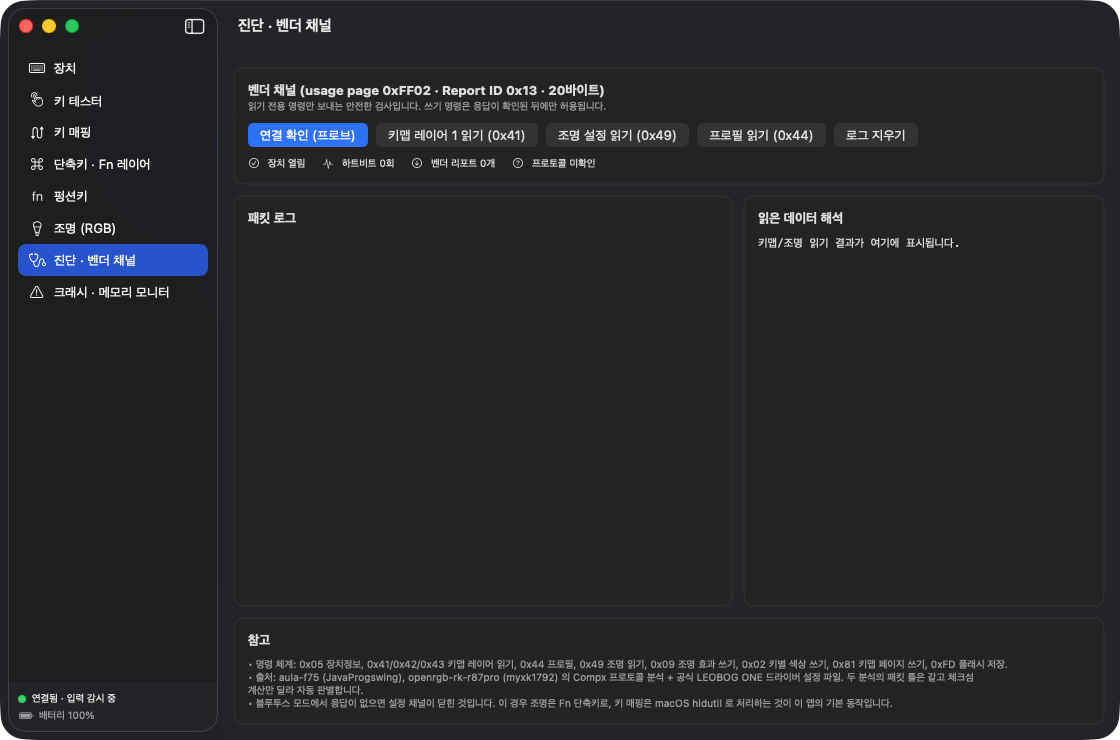
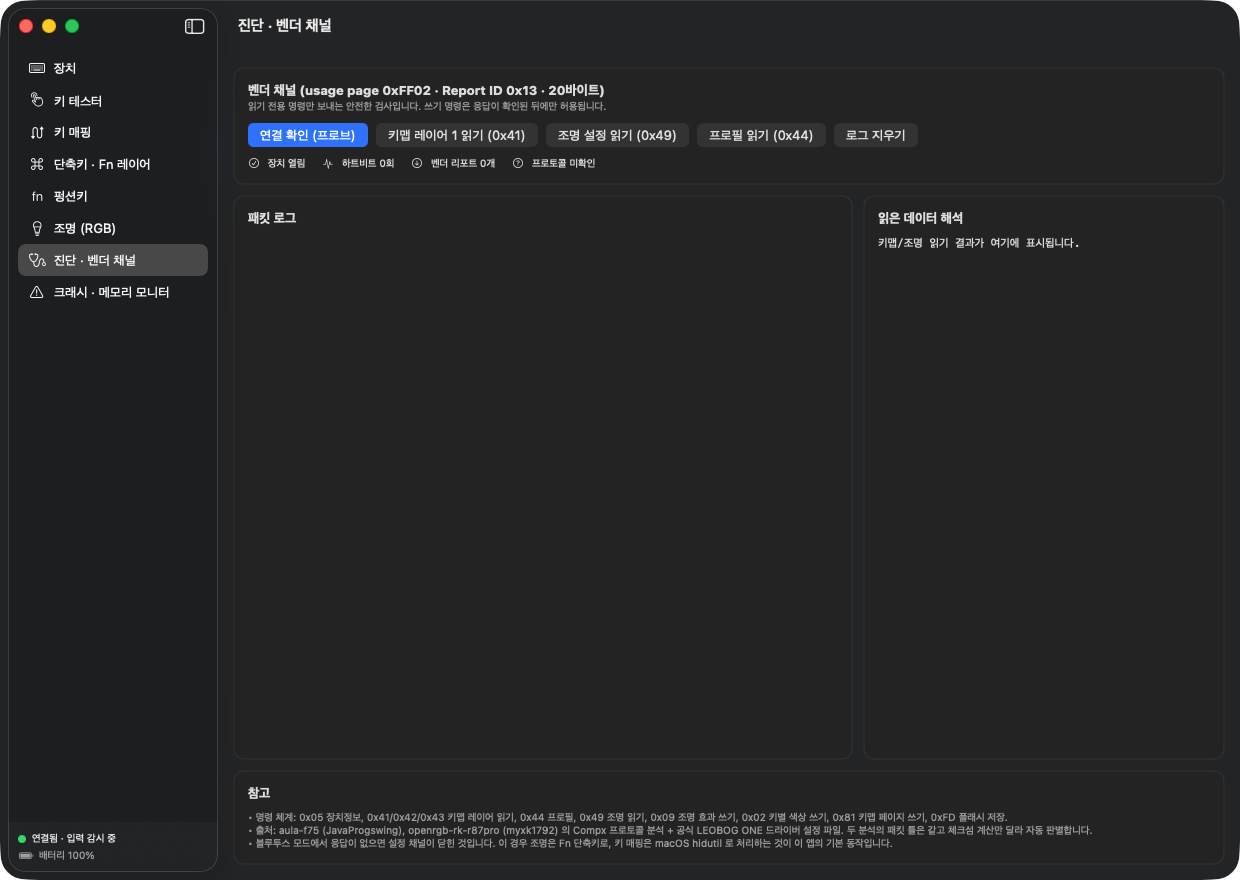
키 테스터 레이아웃 정리, 기본 창 1240×880 으로 확대
- 키 테스터 헤더: 상태 문구는 두 줄까지만, 모드 선택기·버튼은 고정 폭으로 두어 겹치지 않게
- 다이어그램 매핑 라벨을 원래 키/대상 키 두 줄로, 좁은 키는 화살표 생략
- 오른쪽 카드 묶음을 스크롤 영역(340px)으로, 다이어그램 최대 높이 300
- WindowGroup id 를 바꿔 저장된 창 크기 대신 새 기본값(1240×880, 최소 1040×720) 적용
- 단축키 탭 모드 선택기 라벨을 세그먼트 바깥으로
- 자동화 훅을 deliverImmediately 옵저버로 등록 (창이 뒤에 있어도 수신)
- screenshots.sh: SDK 선택, --args 단어 분할, 앱 기동 대기 수정
- 스크린샷 7장 재촬영, CHANGELOG/README 갱신

diff --git a/Sources/LeobogControl/Views/KeyTesterView.swift b/Sources/LeobogControl/Views/KeyTesterView.swift
@@ -9,23 +9,31 @@ struct KeyTesterView: View {
 
     var body: some View {
         VStack(alignment: .leading, spacing: 12) {
-            HStack {
-                if hid.isOpen {
-                    Label("HID 입력 리포트로 실시간 확인 중 — 아무 키나 눌러 보세요 (Fn 조합, 노브 포함). 방향키·Tab 도 이 화면이 받습니다 (⌘ 조합 제외)", systemImage: "dot.radiowaves.left.and.right").foregroundStyle(.green)
-                } else {
-                    Label("권한 없음: 이 창이 앞에 있을 때만 키를 볼 수 있습니다 (NSEvent). 전체 기능은 입력 모니터링 권한 허용 후.", systemImage: "exclamationmark.triangle").foregroundStyle(.orange)
+            // 상태 문구는 두 줄까지 접고, 오른쪽 컨트롤은 고정 폭으로 두어 서로 겹치지 않게 한다
+            HStack(alignment: .center, spacing: 12) {
+                Group {
+                    if hid.isOpen {
+                        Label("HID 리포트로 실시간 확인 중 — 아무 키나 눌러 보세요 (Fn 조합·노브 포함, ⌘ 조합 제외)", systemImage: "dot.radiowaves.left.and.right").foregroundStyle(.green)
+                    } else {
+                        Label("권한 없음: 이 창이 앞에 있을 때만 키를 볼 수 있습니다. 전체 기능은 입력 모니터링 허용 후.", systemImage: "exclamationmark.triangle").foregroundStyle(.orange)
+                    }
                 }
-                Spacer()
-                Picker("키보드 모드", selection: $model.keyboardMode) {
-                    ForEach(KeyboardMode.allCases) { Text($0.label).tag($0) }
+                .lineLimit(2).fixedSize(horizontal: false, vertical: true)
+                Spacer(minLength: 8)
+                HStack(spacing: 8) {
+                    Text("키보드 모드").foregroundStyle(.secondary)
+                    Picker("키보드 모드", selection: $model.keyboardMode) {
+                        ForEach(KeyboardMode.allCases) { Text($0.label).tag($0) }
+                    }
+                    .labelsHidden().pickerStyle(.segmented).frame(width: 200)
+                    .help("키보드에서 Fn + M 으로 전환하는 펌웨어 모드. 하단열(⌥ / ⌘ / Fn) 배열이 달라집니다.")
+                    Button("기록 지우기") { model.clearEvents(); everPressed.removeAll() }
                 }
-                .pickerStyle(.segmented).frame(width: 210)
-                .help("키보드에서 Fn + M 으로 전환하는 펌웨어 모드. 하단열(⌥ / ⌘ / Fn) 배열이 달라집니다.")
-                Button("기록 지우기") { model.clearEvents(); everPressed.removeAll() }
+                .fixedSize()
             }.font(.callout)
 
             KeyboardDiagramView(keys: model.layoutKeys, pressed: model.pressedKeyIDs, remapped: remapLabels, highlighted: everPressed)
-                .frame(maxHeight: 330)
+                .frame(maxHeight: 300)
                 .onChange(of: model.pressedKeyIDs) { _, new in everPressed.formUnion(new) }
                 .onChange(of: model.keyboardMode) { _, _ in everPressed.removeAll() }
 
@@ -43,9 +51,11 @@ struct KeyTesterView: View {
                                 Text(ev.isDown ? "눌림" : "뗌").foregroundStyle(ev.isDown ? .green : .secondary).font(.caption)
                             }.id(ev.id)
                         }
-                        .frame(minHeight: 160)
+                        .frame(minHeight: 160, maxHeight: .infinity)
                     }
                 }
+                // 오른쪽 카드 묶음은 스크롤 영역에 넣어 창이 작아도 전체 레이아웃이 세로로 넘치지 않게 한다
+                ScrollView(.vertical) {
                 VStack(alignment: .leading, spacing: 12) {
                     Card(title: "키보드 자체 Fn 키", subtitle: fnKeyPosition) {
                         Text("펌웨어가 직접 처리하는 키라 혼자 누르면 맥으로 아무 입력도 오지 않습니다 — 다이어그램에 안 켜지는 것이 정상입니다. 조합으로만 보입니다:")
@@ -91,9 +101,12 @@ struct KeyTesterView: View {
                         }
                     }
                 }
-                .frame(width: 320)
+                }
+                .frame(width: 340)
             }
+            .frame(maxHeight: .infinity)
         }
+        .frame(maxWidth: .infinity, maxHeight: .infinity, alignment: .topLeading)
         .padding(16)
     }
 

diff --git a/Sources/LeobogControl/AutomationHook.swift b/Sources/LeobogControl/AutomationHook.swift
@@ -1,6 +1,5 @@
 import SwiftUI
 import AppKit
-import Combine
 import LeobogCore
 
 /// 문서용 스크린샷 자동화 훅. `open -a "Leobog Control" --args -automation YES` 로 띄웠을 때만 켜지며,
@@ -13,9 +12,25 @@ enum AutomationHook {
     static let name = Notification.Name("com.leobog.control.automation")
     static var enabled: Bool { CommandLine.arguments.contains("-automation") }
 
-    static var publisher: AnyPublisher<Notification, Never> {
-        guard enabled else { return Empty().eraseToAnyPublisher() }
-        return DistributedNotificationCenter.default().publisher(for: name).receive(on: RunLoop.main).eraseToAnyPublisher()
+    private static var observer: Observer?
+
+    /// 앱 시작 시 한 번 호출. SwiftUI 의 onReceive 대신 selector 로 직접 등록하는 이유: 앱이 비활성(다른 앱이 앞)일 때
+    /// AppKit 이 분산 알림 센터를 suspend 하는데, `.deliverImmediately` 로 등록해야 그 상태에서도 바로 받는다.
+    @MainActor
+    static func start(model: AppModel) {
+        AppLog.shared.log("automation", "start 호출: enabled=\(enabled) args=\(CommandLine.arguments.dropFirst().joined(separator: " "))")
+        guard enabled, observer == nil else { return }
+        let o = Observer(model: model)
+        DistributedNotificationCenter.default().addObserver(o, selector: #selector(Observer.receive(_:)), name: name, object: nil, suspensionBehavior: .deliverImmediately)
+        observer = o
+        AppLog.shared.log("automation", "자동화 훅 등록 (\(name.rawValue))")
+    }
+
+    @MainActor
+    private final class Observer: NSObject {
+        let model: AppModel
+        init(model: AppModel) { self.model = model }
+        @objc func receive(_ n: Notification) { AutomationHook.handle(n, model: model) }
     }
 
     @MainActor

diff --git a/Sources/LeobogControl/Views/KeyboardDiagramView.swift b/Sources/LeobogControl/Views/KeyboardDiagramView.swift
@@ -56,19 +56,22 @@ struct KeyboardDiagramView: View {
                     else { RoundedRectangle(cornerRadius: 4 * scale).stroke(strokeColor(sel: isSel, hi: isHi, remap: remapLabel != nil), lineWidth: isSel || isHi ? 2 : 1) }
                 }
             )
+            // 매핑된 키는 원래 라벨을 조금 줄이고 대상 라벨을 아래에 둔다. 좁은 키(F열 등)에서는 화살표를 빼서
+            // 글자가 지나치게 작아지지 않게 한다 — 주황색 글씨와 테두리만으로도 매핑 표시가 된다.
+            let narrow = key.frame.width * scale < 48
             VStack(spacing: 0) {
                 Text(key.displayLabel)
-                    .font(.system(size: fontSize, weight: .medium))
+                    .font(.system(size: remapLabel == nil ? fontSize : fontSize * 0.85, weight: .medium))
                     .foregroundStyle(isPressed ? Color.white : (colors[key.id] != nil ? Color.black.opacity(0.75) : Color.primary))
-                    .lineLimit(1).minimumScaleFactor(0.5)
+                    .lineLimit(1).minimumScaleFactor(0.6).allowsTightening(true)
                 if let r = remapLabel {
-                    Text("→\(r)")
-                        .font(.system(size: fontSize * 0.85, weight: .semibold))
+                    Text(narrow ? r : "→\(r)")
+                        .font(.system(size: fontSize * 0.9, weight: .semibold))
                         .foregroundStyle(isPressed ? Color.white : Color.orange)
-                        .lineLimit(1).minimumScaleFactor(0.5)
+                        .lineLimit(1).minimumScaleFactor(0.6).allowsTightening(true)
                 }
             }
-            .padding(1)
+            .padding(.horizontal, 1)
         }
         .contentShape(Rectangle())
     }

diff --git a/Sources/LeobogControl/LeobogControlApp.swift b/Sources/LeobogControl/LeobogControlApp.swift
@@ -30,7 +30,8 @@ struct LeobogControlApp: App {
     @StateObject private var model = AppModel()
 
     var body: some Scene {
-        WindowGroup("Leobog Control") {
+        // id 를 주면 창 프레임 자동 저장 키가 바뀌어, 예전 기본 크기(1120×740)로 저장된 프레임 대신 새 defaultSize 가 적용된다
+        WindowGroup("Leobog Control", id: "main-1240") {
             ContentView()
                 .environmentObject(model)
                 .environmentObject(model.hid)
@@ -38,9 +39,9 @@ struct LeobogControlApp: App {
                 .environmentObject(model.remap)
                 .environmentObject(model.fn)
                 .environmentObject(model.battery)
-                .frame(minWidth: 980, minHeight: 640)
+                .frame(minWidth: 1040, minHeight: 720)
         }
-        .defaultSize(width: 1120, height: 740)
+        .defaultSize(width: 1240, height: 880)
         .commands {
             CommandGroup(replacing: .newItem) {}
         }

diff --git a/Sources/LeobogControl/Views/ShortcutsView.swift b/Sources/LeobogControl/Views/ShortcutsView.swift
@@ -18,9 +18,10 @@ struct ShortcutsView: View {
                 Picker("분류", selection: $category) {
                     ForEach(FnLayerReference.categories, id: \.self) { Text($0).tag($0) }
                 }.pickerStyle(.segmented)
+                Text("키보드 모드").foregroundStyle(.secondary).fixedSize()
                 Picker("키보드 모드", selection: $model.keyboardMode) {
                     ForEach(KeyboardMode.allCases) { Text($0.label).tag($0) }
-                }.pickerStyle(.segmented).frame(width: 200).help("키보드에서 Fn + M 으로 전환하는 펌웨어 모드")
+                }.labelsHidden().pickerStyle(.segmented).frame(width: 200).help("키보드에서 Fn + M 으로 전환하는 펌웨어 모드")
             }
 
             Table(FnLayerReference.shortcuts(in: category)) {

diff --git a/Sources/LeobogControl/Views/ContentView.swift b/Sources/LeobogControl/Views/ContentView.swift
@@ -20,7 +20,7 @@ struct ContentView: View {
             }
             .navigationTitle(model.section.rawValue)
         }
-        .onReceive(AutomationHook.publisher) { AutomationHook.handle($0, model: model) }
+        .onAppear { AutomationHook.start(model: model) }
     }
 
     private var crashBanner: some View {

diff --git a/README.md b/README.md
@@ -102,7 +102,7 @@ Get-FileHash .\LeobogControl-Windows-1.0.0.zip -Algorithm SHA256   # Windows
 
 <img src="docs/screenshots/macos-tester.png" width="760" alt="키 테스터 탭 — 눌린 키가 키보드 그림에 켜짐">
 
-키보드 그림 위에서 지금 눌린 키가 켜지고, 최근 입력(usage 코드 포함)이 목록으로 쌓입니다. 노브 돌리기/누르기도 소비자(consumer) usage 로 잡힙니다. 매핑을 적용한 키는 주황색 테두리와 `→대상` 라벨로 표시됩니다.
+키보드 그림 위에서 지금 눌린 키가 켜지고, 최근 입력(usage 코드 포함)이 목록으로 쌓입니다. 노브 돌리기/누르기도 소비자(consumer) usage 로 잡힙니다. 매핑을 적용한 키는 주황색 테두리와 대상 키 라벨(넓은 키에서는 `→대상`)로 표시됩니다.
 
 오른쪽 위 **키보드 모드** 선택기(Mac 모드 / Windows 모드)는 키보드 펌웨어 모드에 맞춰 하단열 그림을 바꿉니다 ([5. 키보드 모드와 하단열](#5-키보드-모드와-하단열)). "배열표에 없는 입력" 카드는 선택한 모드와 펌웨어 모드가 다를 때 쌓입니다.
 
@@ -409,7 +409,7 @@ scripts/release.sh               버전 올리기 · 로컬 패키징 · 태그
 scripts/crash-monitor.sh         macOS 크래시 리포트 요약
 scripts/make-icon.swift          macOS 아이콘 생성
 scripts/screenshots.sh           README 스크린샷 다시 찍기 (docs/screenshots/, screenshot-post.swift 사용)
-docs/screenshots/                README 에 쓰는 macOS 앱 스크린샷 (1120×740)
+docs/screenshots/                README 에 쓰는 macOS 앱 스크린샷 (1240×880)
 .github/workflows/ci.yml         push/PR 빌드 검사 (macOS + Windows)
 .github/workflows/release.yml    태그 푸시 시 빌드 + GitHub Release
 ```

diff --git a/CHANGELOG.md b/CHANGELOG.md
@@ -8,6 +8,17 @@
 ### 추가
 - README 에 macOS 앱 실제 스크린샷(탭별 7장) 추가. `scripts/screenshots.sh` 로 다시 찍을 수 있고, 앱은 `-automation` 인자로 실행했을 때만 캡처 알림(`com.leobog.control.automation`)을 받는다.
 
+### 변경
+- macOS 앱 기본 창 크기를 1240×880 으로 키우고 최소 1040×720 으로 제한. 키 테스터 탭이 기본 창에서 아래가 잘리지 않고 다 보인다 (이전에 저장된 창 크기는 무시되고 새 기본값으로 뜬다).
+- 키 테스터: 상태 문구와 "키보드 모드" 선택기·"기록 지우기" 버튼이 서로 겹치거나 세로로 찌그러지지 않게 헤더를 정리하고, 오른쪽 카드 묶음은 스크롤 영역(340px)에 둔다.
+- 키보드 다이어그램: 매핑된 키의 라벨을 원래 키 + 대상 키 두 줄로 나누고 좁은 키에서는 화살표를 빼서 글자가 읽히게 한다.
+- 단축키·Fn 레이어 탭의 모드 선택기도 라벨을 바깥으로 빼서 세그먼트 안에서 줄바꿈되지 않는다.
+- 스크린샷 7장을 새 창 크기로 다시 찍음.
+
+### 수정
+- `-automation` 캡처 훅이 창이 뒤에 있을 때 알림을 못 받던 문제: Combine 구독 대신 `DistributedNotificationCenter` 의 `.deliverImmediately` 옵저버로 등록.
+- `scripts/screenshots.sh`: 이 Mac 의 swiftc 와 맞지 않는 최신 SDK 를 집던 문제(build-app.sh 와 같은 규칙으로), `-automation YES` 가 한 단어로 전달돼 훅이 켜지지 않던 문제, 앱이 늦게 뜨면 시간 초과되던 문제 수정.
+
 ## [1.0.0] - 2026-10-19
 
 ### 추가
